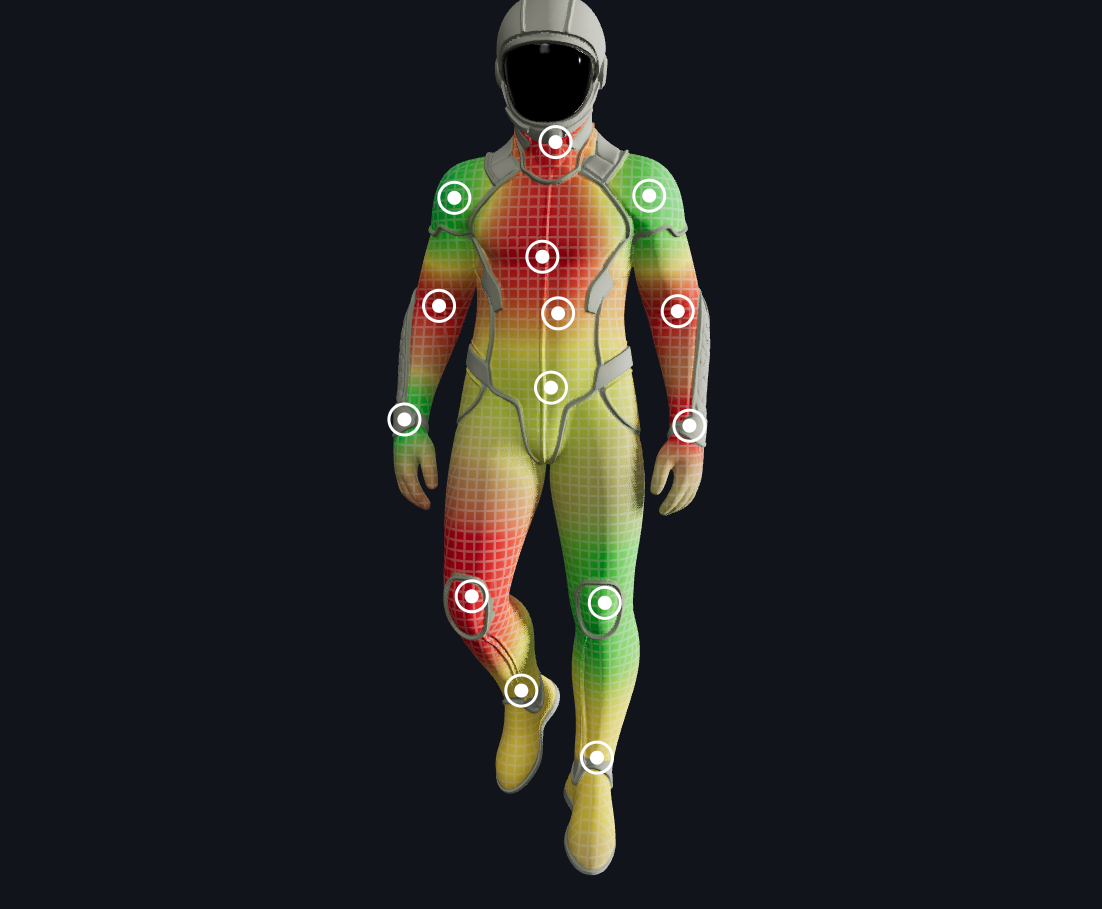
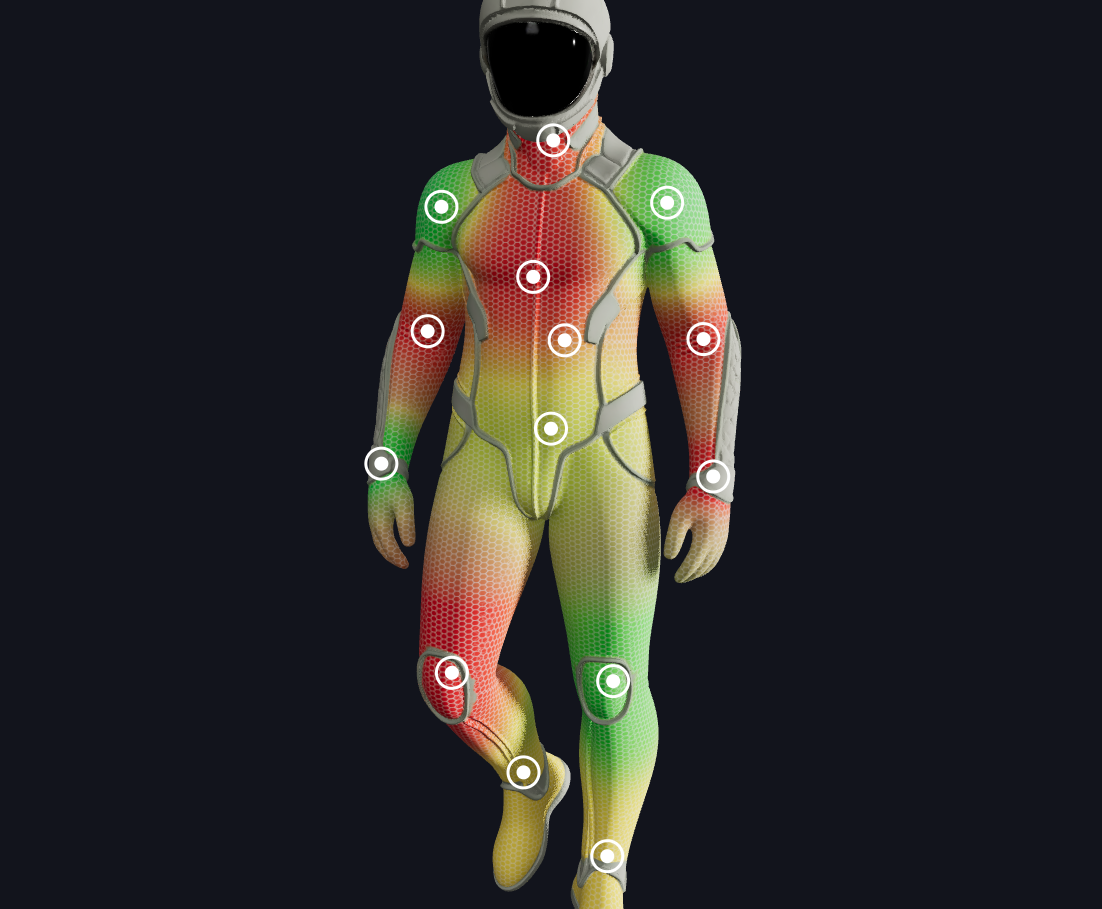
Use a tileable hex weave texture for the suit grid
Adds a second grid source alongside the procedural lines: a small tileable
image sampled for its alpha only, so color and opacity stay in the panel.

The pattern was authored in Blender against a completely different unwrap,
but sampling it triplanar in model space means it needs no UV layout of its
own, so it maps cleanly onto this mesh anyway. Repeat wrapping plus max
anisotropy keep the weave from breaking up at grazing angles.

Changed region(s): [[0.3085, 0.0, 0.6788, 1.0]]

diff --git a/src/heatmap.js b/src/heatmap.js
@@ -54,21 +54,40 @@ uniform int   uGridZoneOnly;
 uniform float uGridRotation;   // radians
 uniform float uGridAspect;     // >1 stretches the cell vertically
 uniform int   uGridStyle;      // 0 square, 1 horizontal only, 2 vertical only
+uniform sampler2D uGridMap;   // tileable pattern, alpha = line coverage
+uniform int   uGridUseMap;    // 1 = sample the pattern instead of drawing lines
 varying vec3  vHeatNormal;
 
-/** Cell lines over a 2D plane, with the width measured in screen space. */
-float heatGridLines(vec2 q, float width) {
+/** Applies aspect and rotation, shared by both grid sources. */
+vec2 heatGridUv(vec2 q) {
   q *= vec2(1.0, uGridAspect);
   float c = cos(uGridRotation);
   float s = sin(uGridRotation);
-  q = mat2(c, -s, s, c) * q;
+  return mat2(c, -s, s, c) * q;
+}
 
+/** Cell lines over a 2D plane, with the width measured in screen space. */
+float heatGridLines(vec2 q, float width) {
+  q = heatGridUv(q);
   vec2 cell = abs(fract(q) - 0.5);
   float d = uGridStyle == 1 ? cell.y
           : uGridStyle == 2 ? cell.x
           : min(cell.x, cell.y);   // 0 on a line, 0.5 at the cell center
   float aa = fwidth(d);            // how much d changes from one pixel to the next
   return 1.0 - smoothstep(width, width + aa + 0.004, d);
+}
+
+/**
+ * Coverage taken from the tileable pattern. The alpha channel carries the weave,
+ * so only that is read; the color stays under the panel's control.
+ */
+float heatGridPattern(vec2 q) {
+  return texture2D(uGridMap, heatGridUv(q)).a;
+}
+
+/** Either source, so the triplanar blend does not care which one is active. */
+float heatGridAt(vec2 q, float width) {
+  return uGridUseMap == 1 ? heatGridPattern(q) : heatGridLines(q, width);
 }
 
 #define HEAT_LUMA(c) dot((c), vec3(0.2126, 0.7152, 0.0722))
@@ -214,11 +233,11 @@ const FRAG_BODY = /* glsl */ `
       vec3 p = vHeatLocal * uGridDensity * uGridWorldScale;
       vec3 w = pow(abs(normalize(vHeatNormal)), vec3(6.0));
       w /= max(w.x + w.y + w.z, 1e-5);
-      line = heatGridLines(p.yz, uGridWidth) * w.x
-           + heatGridLines(p.xz, uGridWidth) * w.y
-           + heatGridLines(p.xy, uGridWidth) * w.z;
+      line = heatGridAt(p.yz, uGridWidth) * w.x
+           + heatGridAt(p.xz, uGridWidth) * w.y
+           + heatGridAt(p.xy, uGridWidth) * w.z;
     } else {
-      line = heatGridLines(vHeatUv * uGridDensity, uGridWidth);
+      line = heatGridAt(vHeatUv * uGridDensity, uGridWidth);
     }
 
     float amount = line * uGridOpacity * (uGridZoneOnly == 1 ? zone : 1.0);
@@ -281,6 +300,8 @@ export class HeatmapLayer {
       gridRotation: 0,
       gridAspect: 1,
       gridStyle: 0,
+      // 'pattern' samples a tileable image, 'lines' draws them mathematically
+      gridSource: 'lines',
       // Markers: a screen space UI overlay. The structure is dot, gap and outer
       // ring; both share one color.
       markOn: true,
@@ -302,6 +323,7 @@ export class HeatmapLayer {
     );
     this._emptyZone.needsUpdate = true;
     this.zoneTexture = null;
+    this.gridTexture = null;
 
     this.uniforms = {
       uHeatPoints: { value: new Float32Array(MAX_POINTS * 4) },
@@ -338,6 +360,8 @@ export class HeatmapLayer {
       uGridRotation: { value: 0 },
       uGridAspect: { value: this.settings.gridAspect },
       uGridStyle: { value: this.settings.gridStyle },
+      uGridMap: { value: this._emptyZone },
+      uGridUseMap: { value: 0 },
     };
 
     this.onChange = null;
@@ -466,6 +490,7 @@ export class HeatmapLayer {
       this.uniforms.uHeatColorMode.value = value === 'perPoint' ? 1 : 0;
     }
     if (key === 'gridOn') this.uniforms.uGridOn.value = value ? 1 : 0;
+    if (key === 'gridSource') this._refreshGridSource();
     if (key === 'gridMode') this.uniforms.uGridMode.value = value === 'triplanar' ? 1 : 0;
     if (key === 'gridZoneOnly') this.uniforms.uGridZoneOnly.value = value ? 1 : 0;
     if (key === 'gridColor') {
@@ -488,6 +513,23 @@ export class HeatmapLayer {
       this.uniforms.uZoneArmor.value.setStyle(value, THREE.SRGBColorSpace);
     }
     if (key === 'sizeScale') this.sync();
+    this.onChange?.();
+  }
+
+  _refreshGridSource() {
+    const usable = this.settings.gridSource === 'pattern' && !!this.gridTexture;
+    this.uniforms.uGridUseMap.value = usable ? 1 : 0;
+  }
+
+  /**
+   * Binds the tileable grid pattern. Only its alpha is read, so the panel keeps
+   * control of the color; passing null falls back to the procedural lines.
+   */
+  setGridTexture(texture) {
+    if (this.gridTexture && this.gridTexture !== texture) this.gridTexture.dispose();
+    this.gridTexture = texture || null;
+    this.uniforms.uGridMap.value = texture || this._emptyZone;
+    this._refreshGridSource();
     this.onChange?.();
   }
 

diff --git a/src/ui.js b/src/ui.js
@@ -194,6 +194,22 @@ export class EditorUI {
 
     $('grid-style').addEventListener('change', (e) => hm.set('gridStyle', Number(e.target.value)));
 
+    $('grid-source').addEventListener('change', (e) => {
+      if (e.target.value === 'pattern' && !hm.gridTexture) {
+        e.target.value = 'lines';
+        this.flash('Load a pattern image first');
+        return;
+      }
+      hm.set('gridSource', e.target.value);
+      this._gridSourceHint();
+    });
+    $('grid-load').addEventListener('click', () => $('grid-file').click());
+    $('grid-file').addEventListener('change', async (e) => {
+      const file = e.target.files?.[0];
+      if (file) await this.loadGridPattern(URL.createObjectURL(file));
+      e.target.value = '';
+    });
+
     $('grid-mode').addEventListener('change', (e) => {
       hm.set('gridMode', e.target.value);
       this._gridModeHint();
@@ -201,6 +217,25 @@ export class EditorUI {
     $('grid-on').addEventListener('change', (e) => hm.set('gridOn', e.target.checked));
     $('grid-zone-only').addEventListener('change', (e) => hm.set('gridZoneOnly', e.target.checked));
     $('grid-color').addEventListener('input', (e) => hm.set('gridColor', e.target.value));
+  }
+
+  /** Loads a tileable pattern and switches the grid over to it. */
+  async loadGridPattern(url) {
+    try {
+      this.heatmap.setGridTexture(await this.viewer.loadGridTexture(url));
+      this.heatmap.set('gridSource', 'pattern');
+      this.refreshAll();
+      return true;
+    } catch (err) {
+      this.flash(`Could not load the pattern: ${err.message}`);
+      return false;
+    }
+  }
+
+  _gridSourceHint() {
+    const usingPattern = this.heatmap.settings.gridSource === 'pattern';
+    $('grid-width').disabled = usingPattern; // the pattern carries its own line width
+    $('grid-style').disabled = usingPattern;
   }
 
   _gridModeHint() {
@@ -732,6 +767,8 @@ export class EditorUI {
     $('grid-zone-only').checked = s.gridZoneOnly;
     $('grid-color').value = s.gridColor;
     $('grid-mode').value = s.gridMode;
+    $('grid-source').value = this.heatmap.gridTexture ? s.gridSource : 'lines';
+    this._gridSourceHint();
     $('grid-style').value = String(s.gridStyle);
     this.sGridRot.set(s.gridRotation);
     this.sGridAspect.set(s.gridAspect);

diff --git a/src/main.js b/src/main.js
@@ -6,6 +6,7 @@ import { EditorUI } from './ui.js';
 import defaultConfig from './default-config.json';
 
 const MODEL_URL = 'models/astronaut.glb';
+const GRID_PATTERN_URL = 'textures/mesh-pattern.png';
 
 const canvas = document.getElementById('view');
 const loader = document.getElementById('loader');
@@ -28,6 +29,14 @@ async function boot() {
   const info = await viewer.load(MODEL_URL, progress);
 
   const ui = new EditorUI(heatmap, viewer);
+
+  // The tileable weave, if it ships with the project. It is bound before the
+  // config so a config asking for gridSource: 'pattern' finds it already there.
+  try {
+    heatmap.setGridTexture(await viewer.loadGridTexture(GRID_PATTERN_URL));
+  } catch {
+    /* no pattern shipped: the grid falls back to the procedural lines */
+  }
 
   try {
     ui.applyConfig(defaultConfig);

diff --git a/index.html b/index.html
@@ -250,6 +250,18 @@
               <input type="checkbox" id="grid-on" checked />
             </label>
             <label class="row">
+              <span>Pattern</span>
+              <select id="grid-source">
+                <option value="lines">Procedural lines</option>
+                <option value="pattern">Texture (hex weave)</option>
+              </select>
+            </label>
+            <div class="btn-row">
+              <button id="grid-load" class="btn">Load another pattern…</button>
+            </div>
+            <input type="file" id="grid-file" accept="image/png,image/webp" hidden />
+
+            <label class="row">
               <span>Projection</span>
               <select id="grid-mode">
                 <option value="triplanar">Model 3D space</option>

diff --git a/src/viewer.js b/src/viewer.js
@@ -263,6 +263,21 @@ export class Viewer {
     return tex;
   }
 
+  /**
+   * Loads the tileable grid pattern. Repeat wrapping is what makes the tiling
+   * work, and max anisotropy keeps the weave from turning to mush at grazing
+   * angles, which is where a fine pattern falls apart first.
+   */
+  async loadGridTexture(url) {
+    const tex = await new THREE.TextureLoader().loadAsync(url);
+    tex.colorSpace = THREE.SRGBColorSpace;
+    tex.wrapS = THREE.RepeatWrapping;
+    tex.wrapT = THREE.RepeatWrapping;
+    tex.anisotropy = this.renderer.capabilities.getMaxAnisotropy();
+    tex.needsUpdate = true;
+    return tex;
+  }
+
   // ---- lighting -----------------------------------------------------------
 
   setLight(key, value) {

diff --git a/README.md b/README.md
@@ -134,10 +134,17 @@ active the fabric is already forced to a flat color in the shader.
 
 ### Suit grid
 
-The grid is not a texture: it is drawn mathematically in the fragment shader. A 1 px
-line in a map is lost when the model shrinks on screen (minification); this one stays
-crisp at any distance because the width is computed in screen space with `fwidth`,
-which also prevents shimmering while rotating or zooming out.
+Two sources, switchable in the panel:
+
+**Texture (hex weave)** — a small tileable image, sampled for its alpha channel only,
+so the color and opacity stay under the panel's control. `public/textures/mesh-pattern.png`
+is the one that ships (270×350, 27 KB). `Load another pattern…` swaps it for any other
+tileable PNG or WebP.
+
+**Procedural lines** — drawn mathematically in the fragment shader. A 1 px line in a
+map is lost when the model shrinks on screen (minification); this one stays crisp at
+any distance because the width is computed in screen space with `fwidth`, which also
+prevents shimmering while rotating or zooming out.
 
 ```glsl
 vec2 cell = abs(fract(q) - 0.5);
@@ -146,29 +153,34 @@ float aa  = fwidth(d);             // how much d changes between adjacent pixels
 float line = 1.0 - smoothstep(uGridWidth, uGridWidth + aa + 0.004, d);
 ```
 
-**Where `q` comes from matters a lot here.** There are two modes:
+**Where `q` comes from matters a lot here**, whichever source is active. There are two
+projections:
 
-- **Model 3D space** (default) — triplanar: the cell is defined in model space and
+- **Model 3D space** (default) — triplanar: the pattern is sampled in model space and
   projected from the three axes, weighted by the normal. Same size and orientation
   across the whole body, no seams.
 - **Texture UVs** — the direct approach, and the one that works on models with a tidy
-  unwrap. On this one it **does not**: the UVs are auto generated islands, each with
-  its own orientation and density, so the grid comes out rotated differently on every
-  part and with cells of different sizes.
+  unwrap. On this one it **does not**: the UVs are auto generated islands, each with its
+  own orientation and density, so the pattern comes out rotated differently on every
+  part and at different sizes.
 
-The cost of triplanar is that on surfaces at ~45° to the axes the three projections
-blend and the line softens a little. It shows slightly on the edge of the arms. The
-weight exponent (`pow(n, 6.0)`) tunes that trade-off: higher means a harder
-transition but crisper lines.
+Triplanar is what makes a tileable pattern usable here at all: it needs no UV layout of
+its own, so a weave authored in Blender against a completely different unwrap still maps
+cleanly onto this mesh.
 
-Density means the same thing in both modes — cells across the model's height —
-because triplanar scales the position by `uGridWorldScale`, which the viewer derives
-from the bounding box.
+The cost is that on surfaces at ~45° to the axes the three projections blend and the
+pattern softens a little. It shows slightly on the edge of the arms. The weight exponent
+(`pow(n, 6.0)`) tunes that trade-off.
 
-It composes last, on top of the heatmap. Controls: projection, density, line width,
-color, opacity, `Only over the heat zone` so it does not invade the armor, plus
-**style** (square / horizontal only / vertical only), **rotation** and **cell aspect**
-to stretch cells taller or wider. Rotating 45° gives diamonds.
+Density means the same thing in both projections — repeats across the model's height —
+because triplanar scales the position by `uGridWorldScale`, which the viewer derives from
+the bounding box.
+
+It composes last, on top of the heatmap. Controls: pattern source, projection, density,
+color, opacity and `Only over the heat zone` so it does not invade the armor. With
+procedural lines there are also line width, **style** (square / horizontal only /
+vertical only), **rotation** and **cell aspect**; those two are disabled with a texture
+pattern, which carries its own line shape.
 
 ### Zones (chroma key)
 
